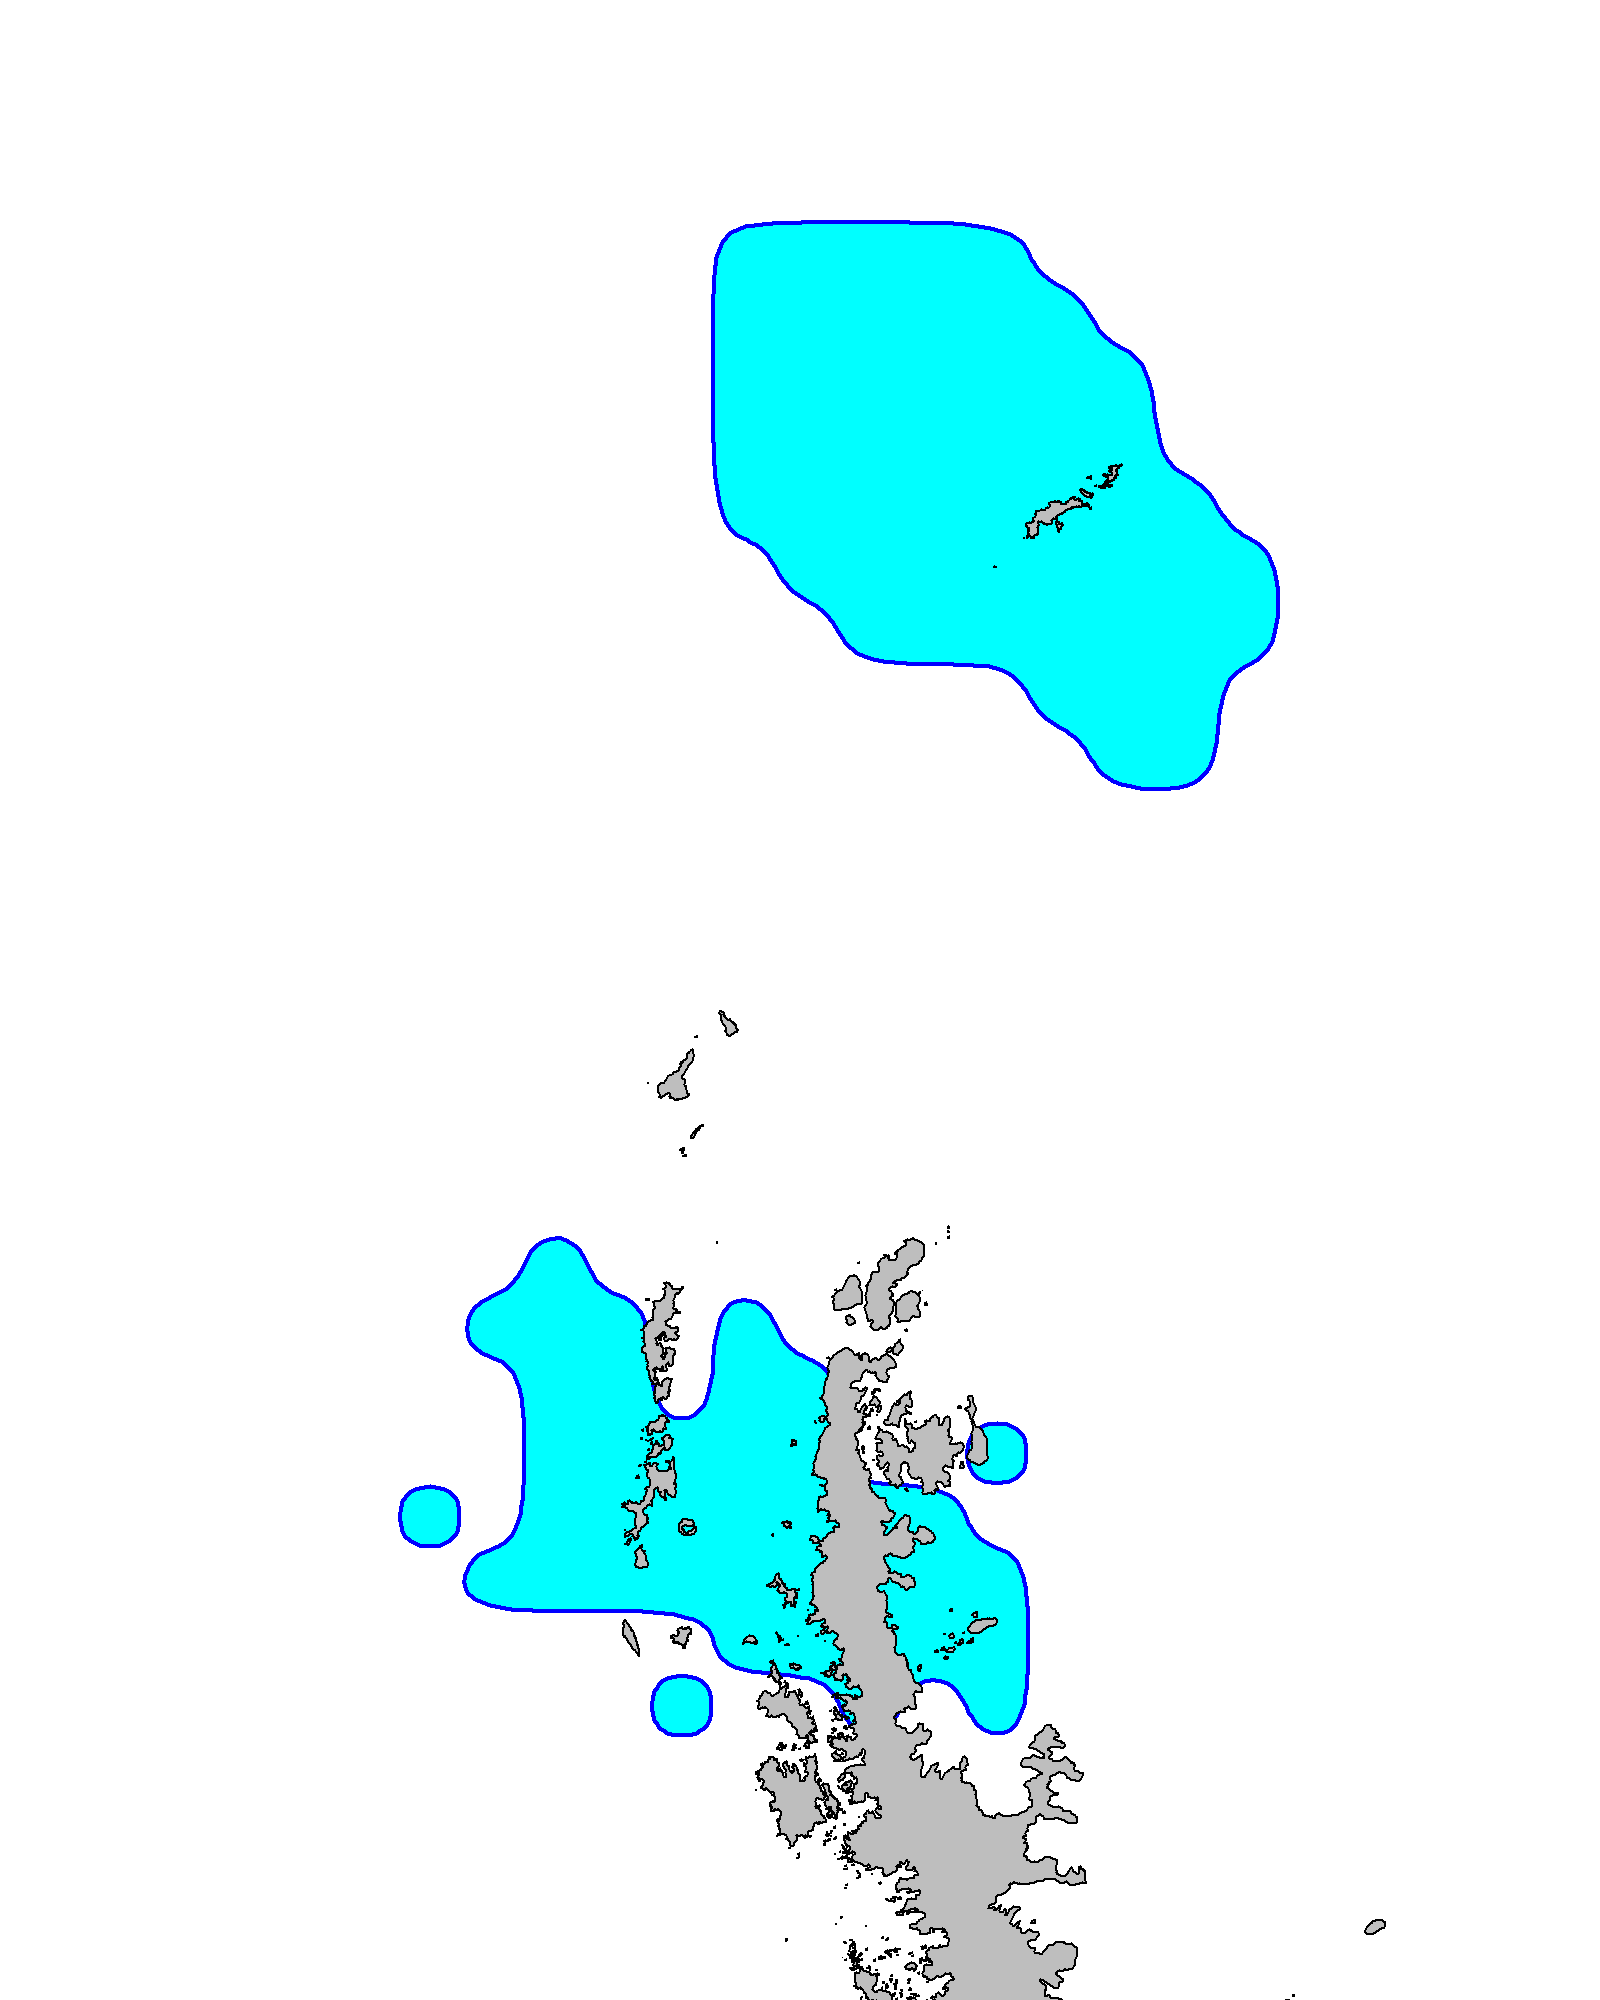
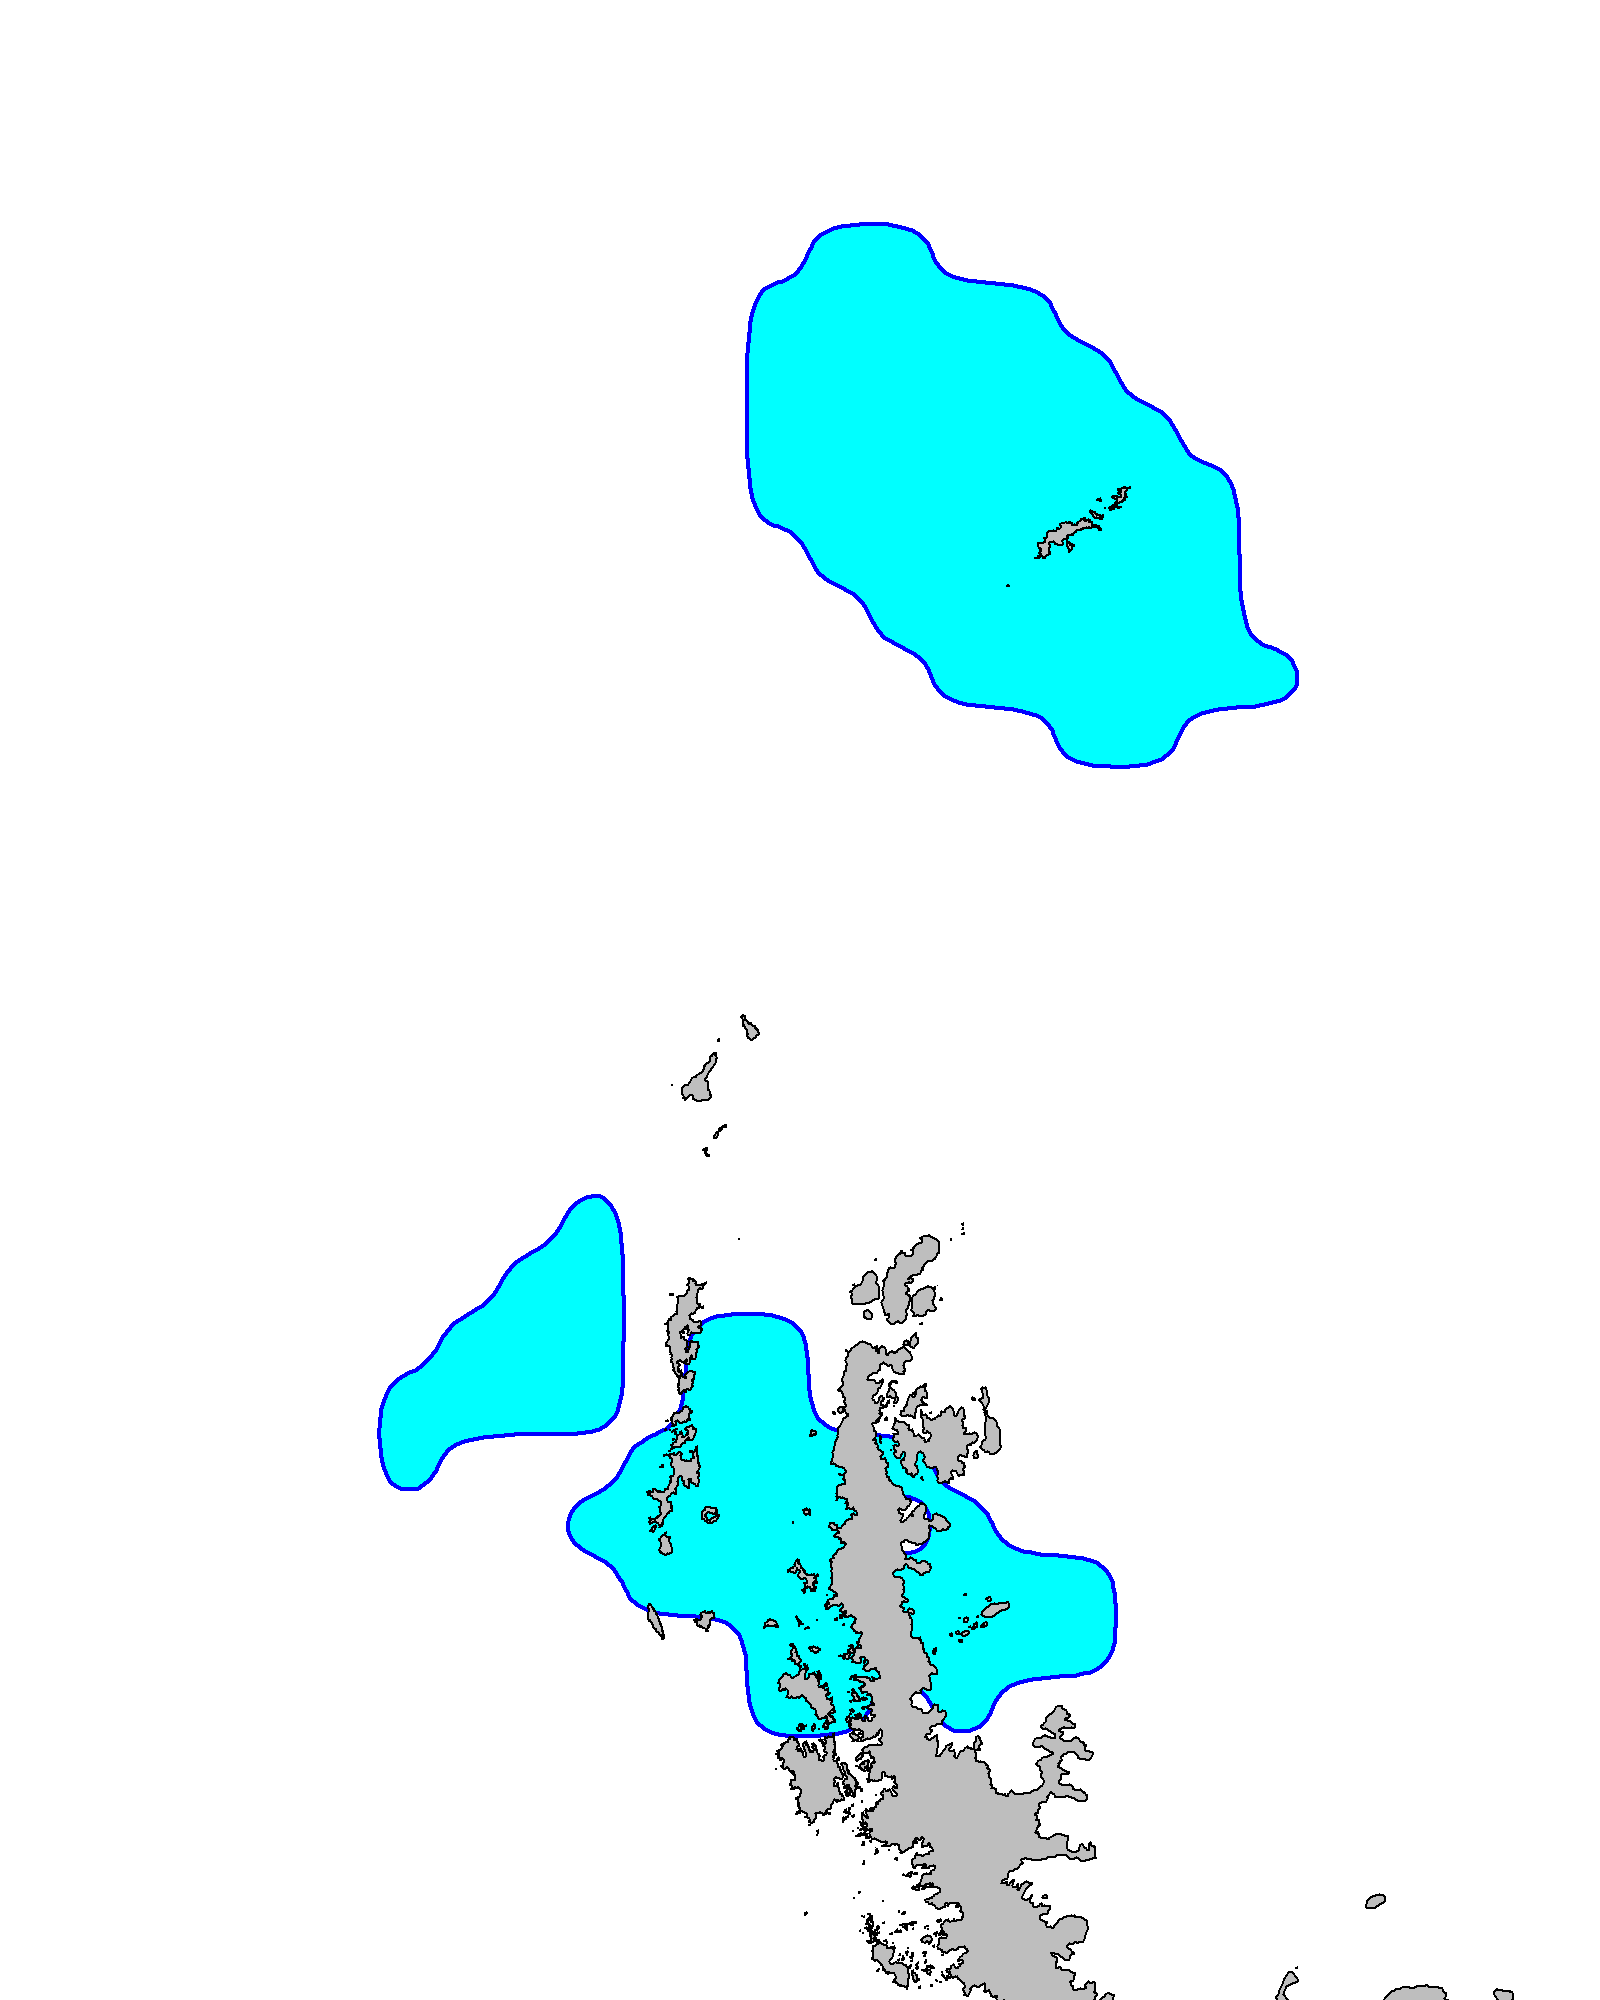
Update

diff --git a/Documentation/Tools.md b/Documentation/Tools.md
@@ -77,12 +77,12 @@ Input=data.frame(Lat_Start=rnorm(n=N,mean=-62,sd=1),
 #Run FCI() without merging tracks
 FCI_1=FCI(Input)
 FCI_1
-#> [1] 0.1303219
+#> [1] 0.1865033
 
 #Run FCI() with merging tracks
 FCI_2=FCI(Input,MergeB=T)
 FCI_2
-#> [1] 0.1515249
+#> [1] 0.1963588
 ```
 
 #### 1.2. Fishery Concentration Areas
@@ -150,6 +150,10 @@ Figure 1. Steps of the FCA workflow.
 </p>
 
 </div>
+
+<br>
+
+<br>
 
 <div class="figure" style="text-align: center">
 
